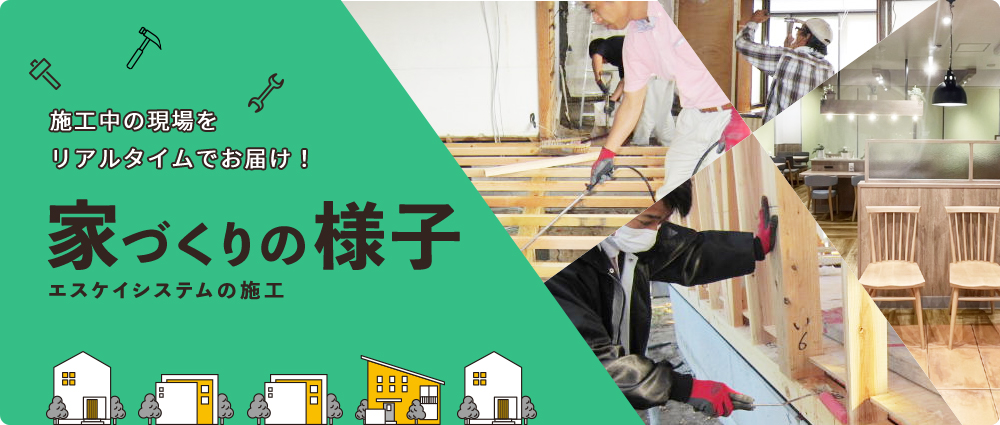
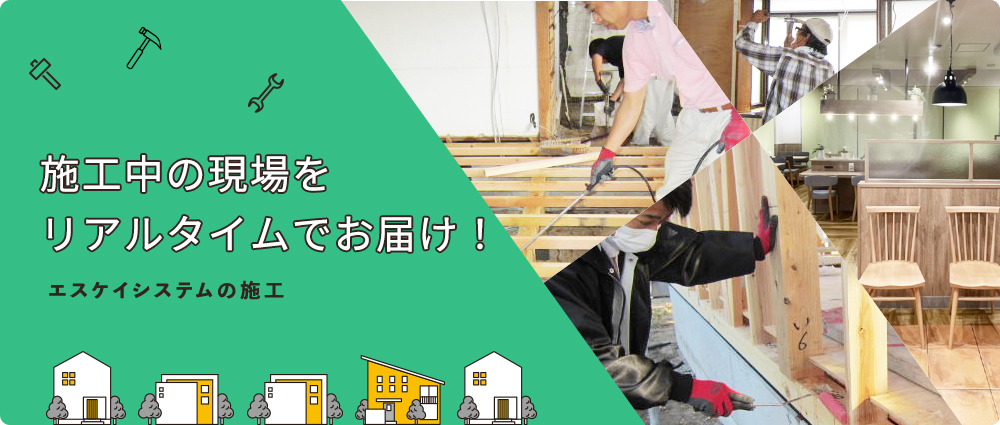
[fix]施工中の様子ページ画像＆テキスト差し替え

Changed region(s): [[0.031, 0.2447, 0.496, 0.6424]]

diff --git a/state.html b/state.html
@@ -171,10 +171,10 @@
 
         <div class="mv__txt">
           <h1>
-            <span class="ja">家づくりの様子</span>
+            <span class="ja">施工中の様子</span>
             <span class="en">
               <picture>
-                <img src="images/state/mv_en.png" alt="家づくりの様子" loading="lazy">
+                <img src="images/state/mv_en.png" alt="施工中の様子" loading="lazy">
               </picture>
             </span>
           </h1>
@@ -182,7 +182,7 @@
         <!-- /.mv__txt -->
         <ul class="breadcrumb">
           <li class="home"><a href="/">ホーム</a></li>
-          <li class="crrent"><span class="arrow">&gt;</span>家づくりの様子</li>
+          <li class="crrent"><span class="arrow">&gt;</span>施工中の様子</li>
         </ul>
       </section>
 
@@ -192,7 +192,7 @@
           <div class="scrollin" data-wow-offset="200">
             <div class="statetop__img">
               <picture>
-                <img src="images/state/state_img01.jpg" alt="家づくりの様子" loading="lazy">
+                <img src="images/state/state_img01.jpg" alt="施工中の様子" loading="lazy">
               </picture>
             </div>
           </div>
